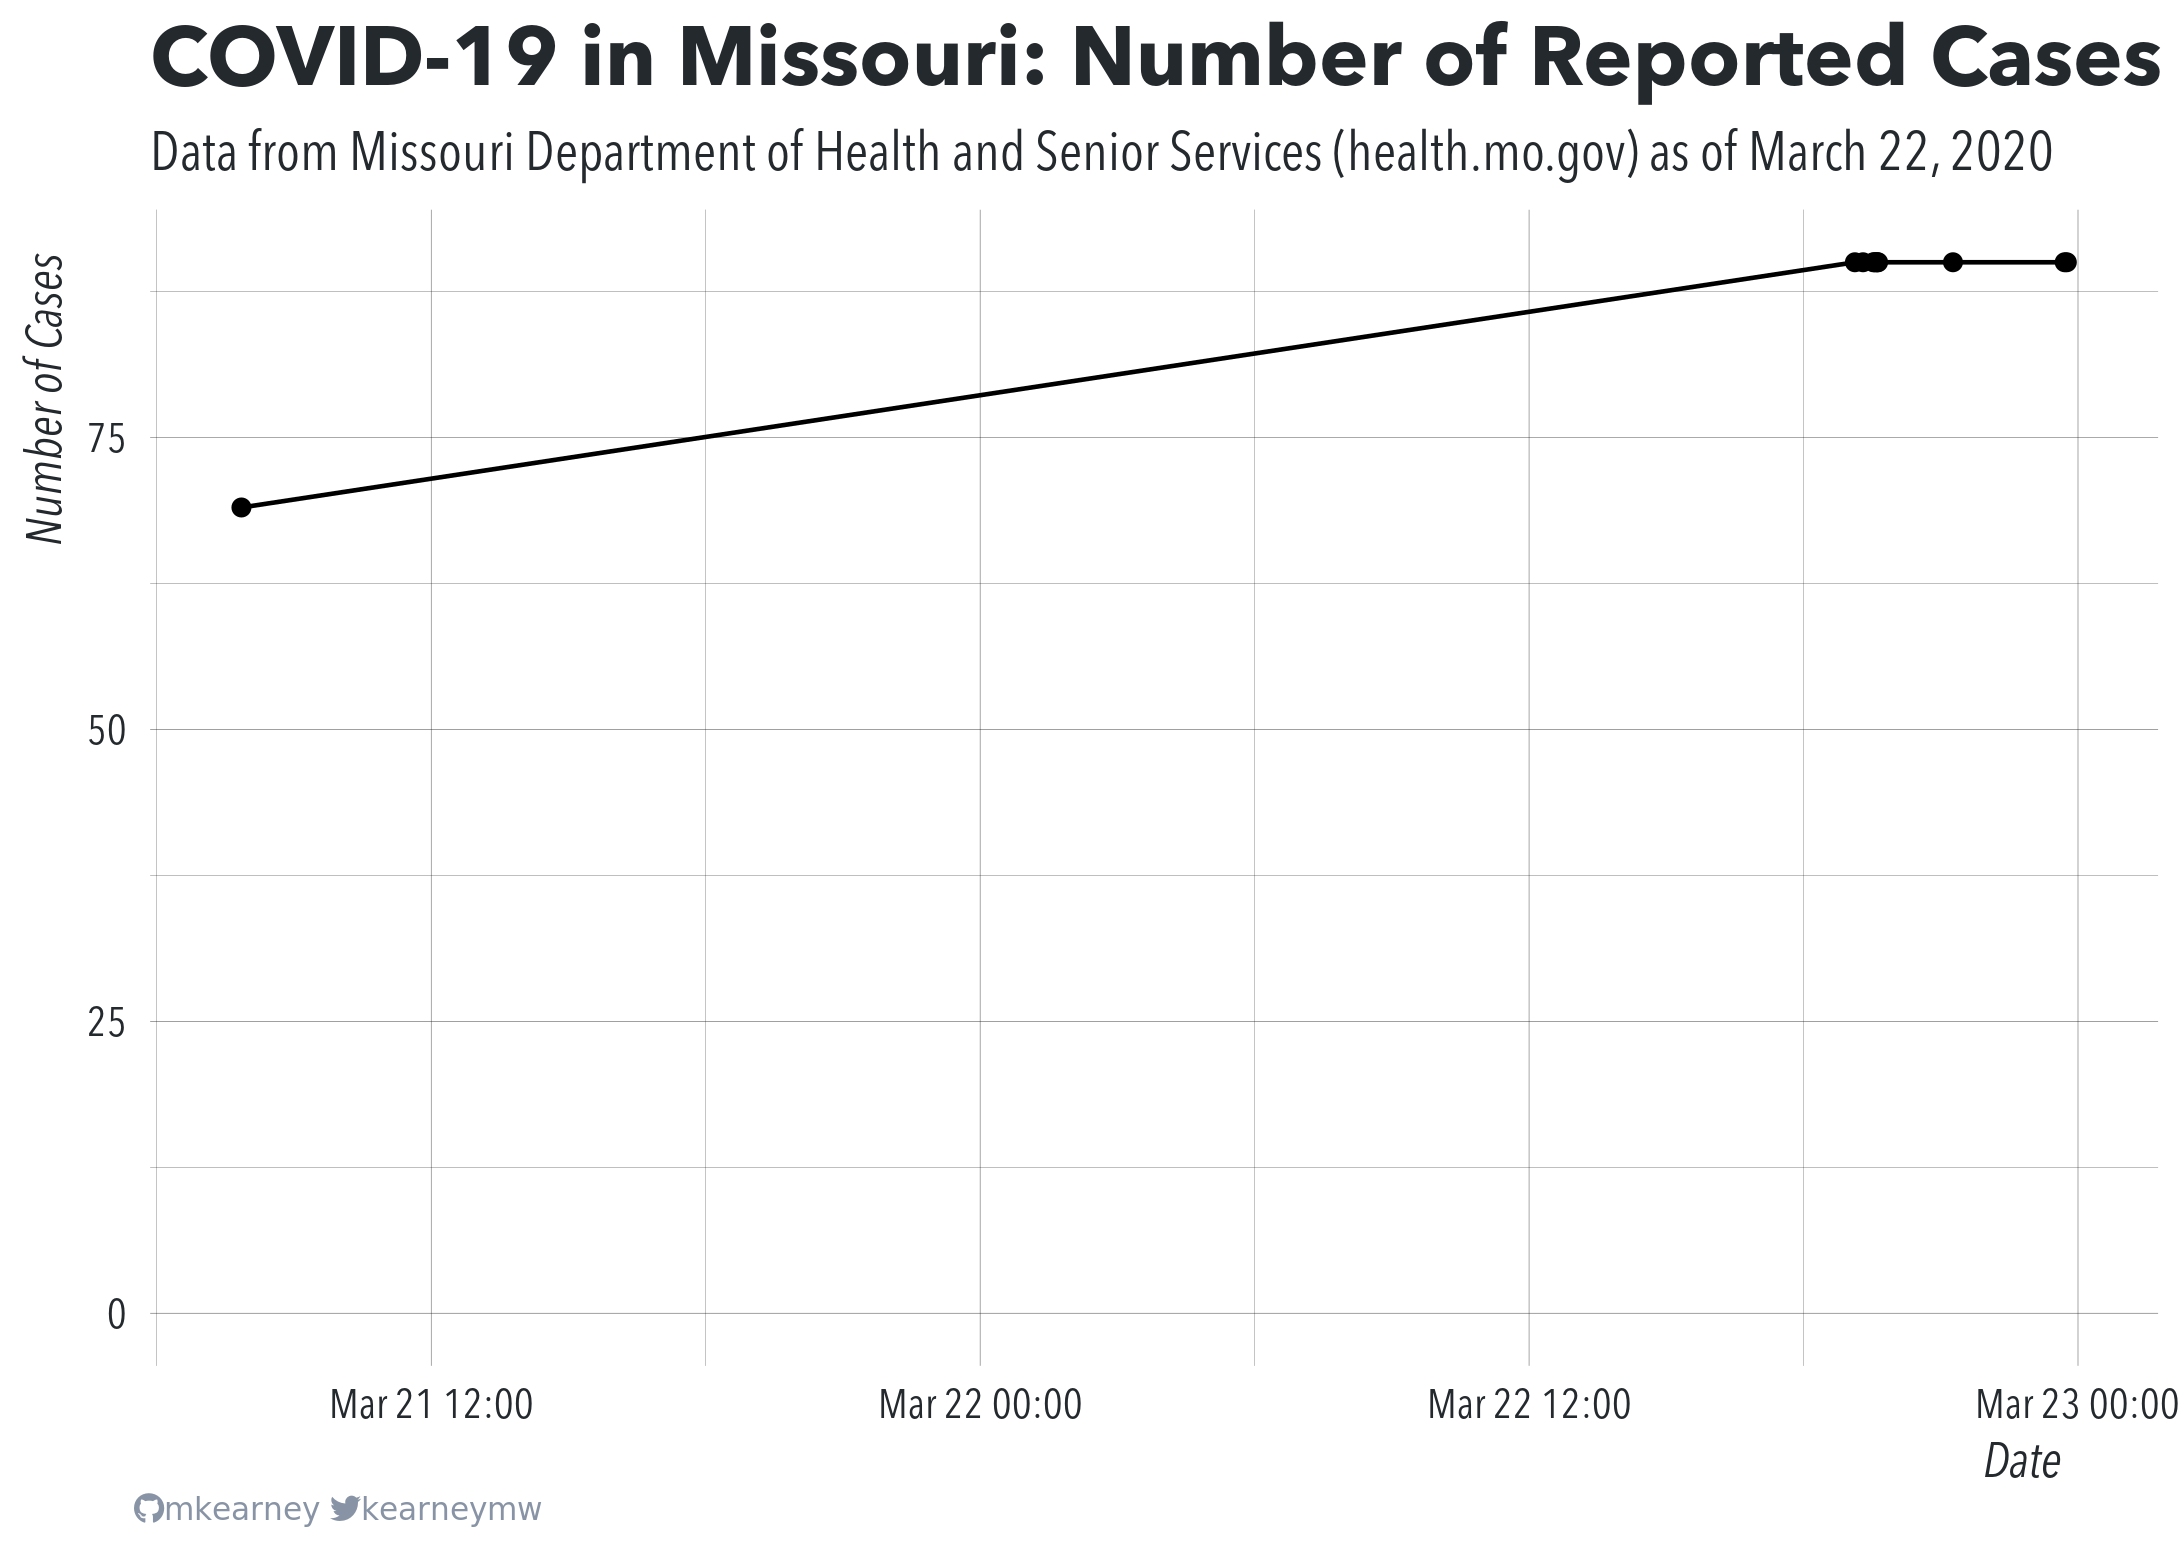
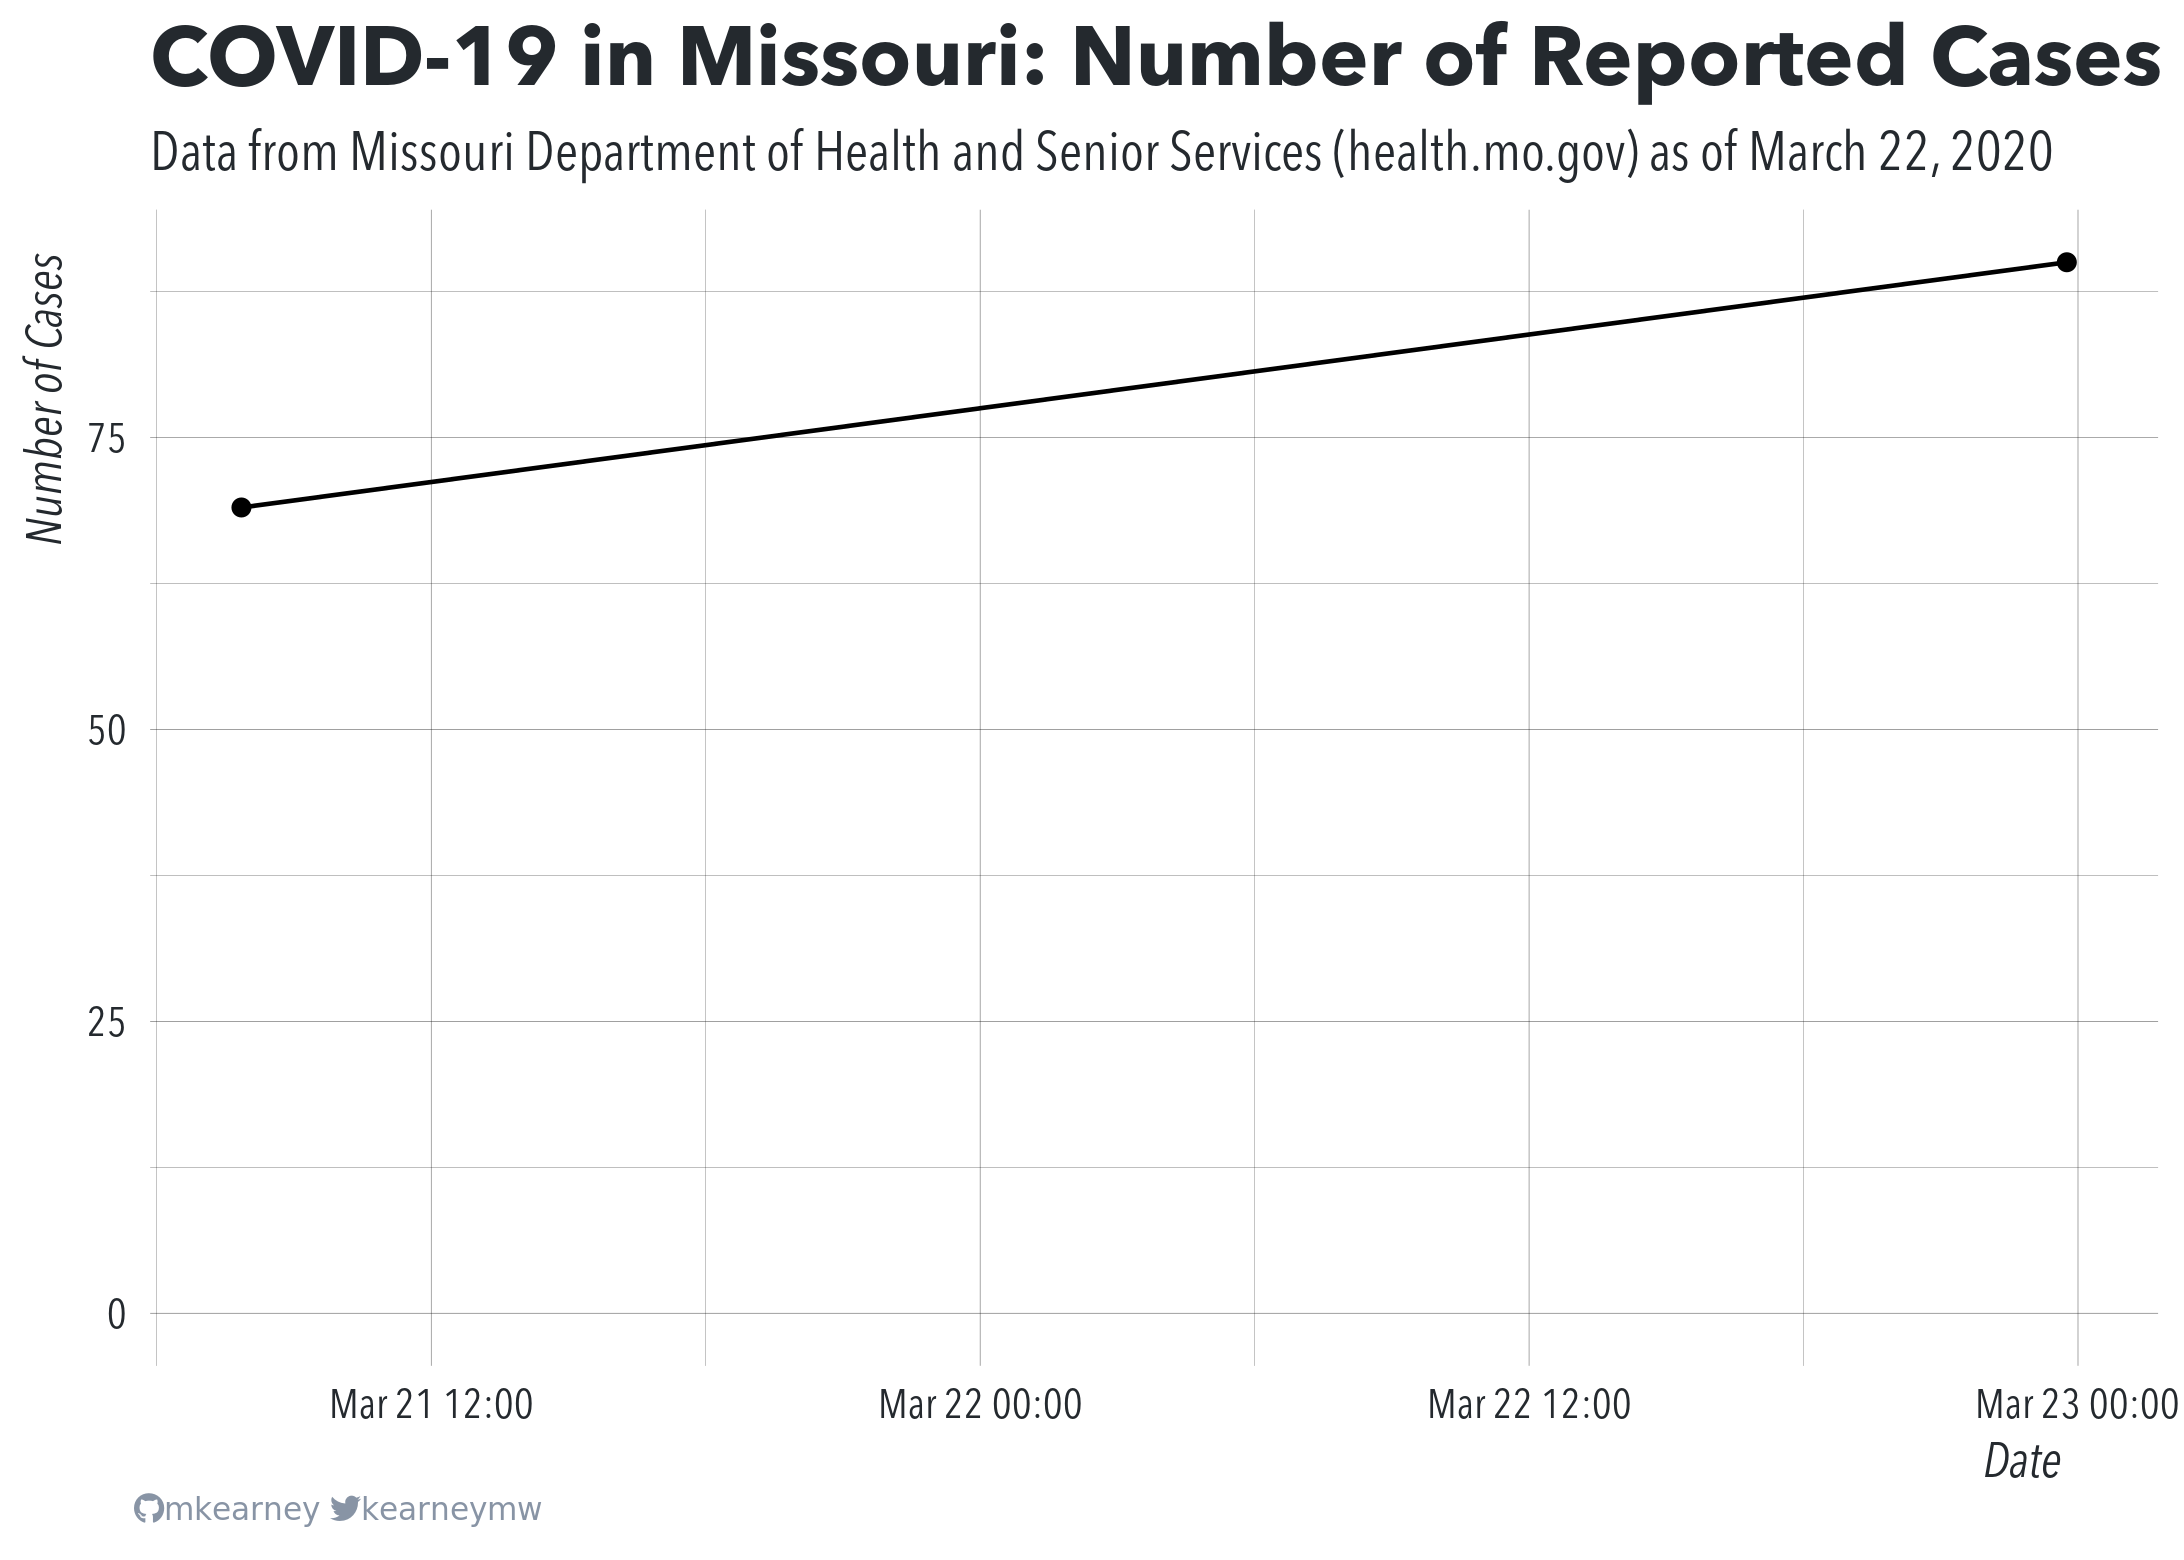
auto update

Changed region(s): [[0.3425, 0.1538, 0.9341, 0.2769], [0.1868, 0.2769, 0.3425, 0.3077], [0.1557, 0.3077, 0.1868, 0.3385]]

diff --git a/README.md b/README.md
@@ -25,20 +25,11 @@ at the state or county level:
 ``` r
 ## state totals daya
 suppressMessages(readr::read_csv("data/mo-total.csv"))
-#> # A tibble: 11 x 18
-#>    state state_abb total_cases state_labs other_labs ages_0_20 ages_20_29
-#>    <chr> <chr>           <dbl>      <dbl>      <dbl>     <dbl>      <dbl>
-#>  1 Miss… MO                 90         38         52         1         24
-#>  2 Miss… MO                 90         38         52         1         24
-#>  3 Miss… MO                 90         38         52         1         24
-#>  4 Miss… MO                 90         38         52         1         24
-#>  5 Miss… MO                 90         38         52         1         24
-#>  6 Miss… MO                 90         38         52         1         24
-#>  7 Miss… MO                 90         38         52         1         24
-#>  8 Miss… MO                 90         38         52         1         24
-#>  9 Miss… MO                 90         38         52         1         24
-#> 10 Miss… MO                 90         38         52         1         24
-#> 11 Miss… MO                 69         NA         NA        NA         NA
+#> # A tibble: 2 x 18
+#>   state state_abb total_cases state_labs other_labs ages_0_20 ages_20_29
+#>   <chr> <chr>           <dbl>      <dbl>      <dbl>     <dbl>      <dbl>
+#> 1 Miss… MO                 90         38         52         1         24
+#> 2 Miss… MO                 69         NA         NA        NA         NA
 #> # … with 11 more variables: ages_30_39 <dbl>, ages_40_49 <dbl>,
 #> #   ages_50_59 <dbl>, ages_60_69 <dbl>, ages_70_plus <dbl>,
 #> #   transmission_travel <dbl>, transmission_contact <dbl>,
@@ -47,20 +38,20 @@ suppressMessages(readr::read_csv("data/mo-total.csv"))
 
 ## county data
 suppressMessages(readr::read_csv("data/mo-county.csv"))
-#> # A tibble: 180 x 6
+#> # A tibble: 198 x 6
 #>    county    total state_lab other_lab  fips timestamp          
 #>    <chr>     <dbl>     <dbl>     <dbl> <dbl> <dttm>             
-#>  1 Bates         1         0         1 29013 2020-03-22 23:45:21
-#>  2 Boone        10         1         9 29019 2020-03-22 23:45:21
-#>  3 Cass          6         2         4 29037 2020-03-22 23:45:21
-#>  4 Christian     1         1         0 29043 2020-03-22 23:45:21
-#>  5 Cole          3         2         1 29051 2020-03-22 23:45:21
-#>  6 Dunklin       1         0         1 29069 2020-03-22 23:45:21
-#>  7 Greene       10         8         2 29077 2020-03-22 23:45:21
-#>  8 Henry         1         1         0 29083 2020-03-22 23:45:21
-#>  9 Jackson       5         1         4 29095 2020-03-22 23:45:21
-#> 10 Jasper        1         1         0 29097 2020-03-22 23:45:21
-#> # … with 170 more rows
+#>  1 Bates         1         0         1 29013 2020-03-22 23:48:28
+#>  2 Boone        10         1         9 29019 2020-03-22 23:48:28
+#>  3 Cass          6         2         4 29037 2020-03-22 23:48:28
+#>  4 Christian     1         1         0 29043 2020-03-22 23:48:28
+#>  5 Cole          3         2         1 29051 2020-03-22 23:48:28
+#>  6 Dunklin       1         0         1 29069 2020-03-22 23:48:28
+#>  7 Greene       10         8         2 29077 2020-03-22 23:48:28
+#>  8 Henry         1         1         0 29083 2020-03-22 23:48:28
+#>  9 Jackson       5         1         4 29095 2020-03-22 23:48:28
+#> 10 Jasper        1         1         0 29097 2020-03-22 23:48:28
+#> # … with 188 more rows
 ```
 
 ![](img/timeseries.png)
